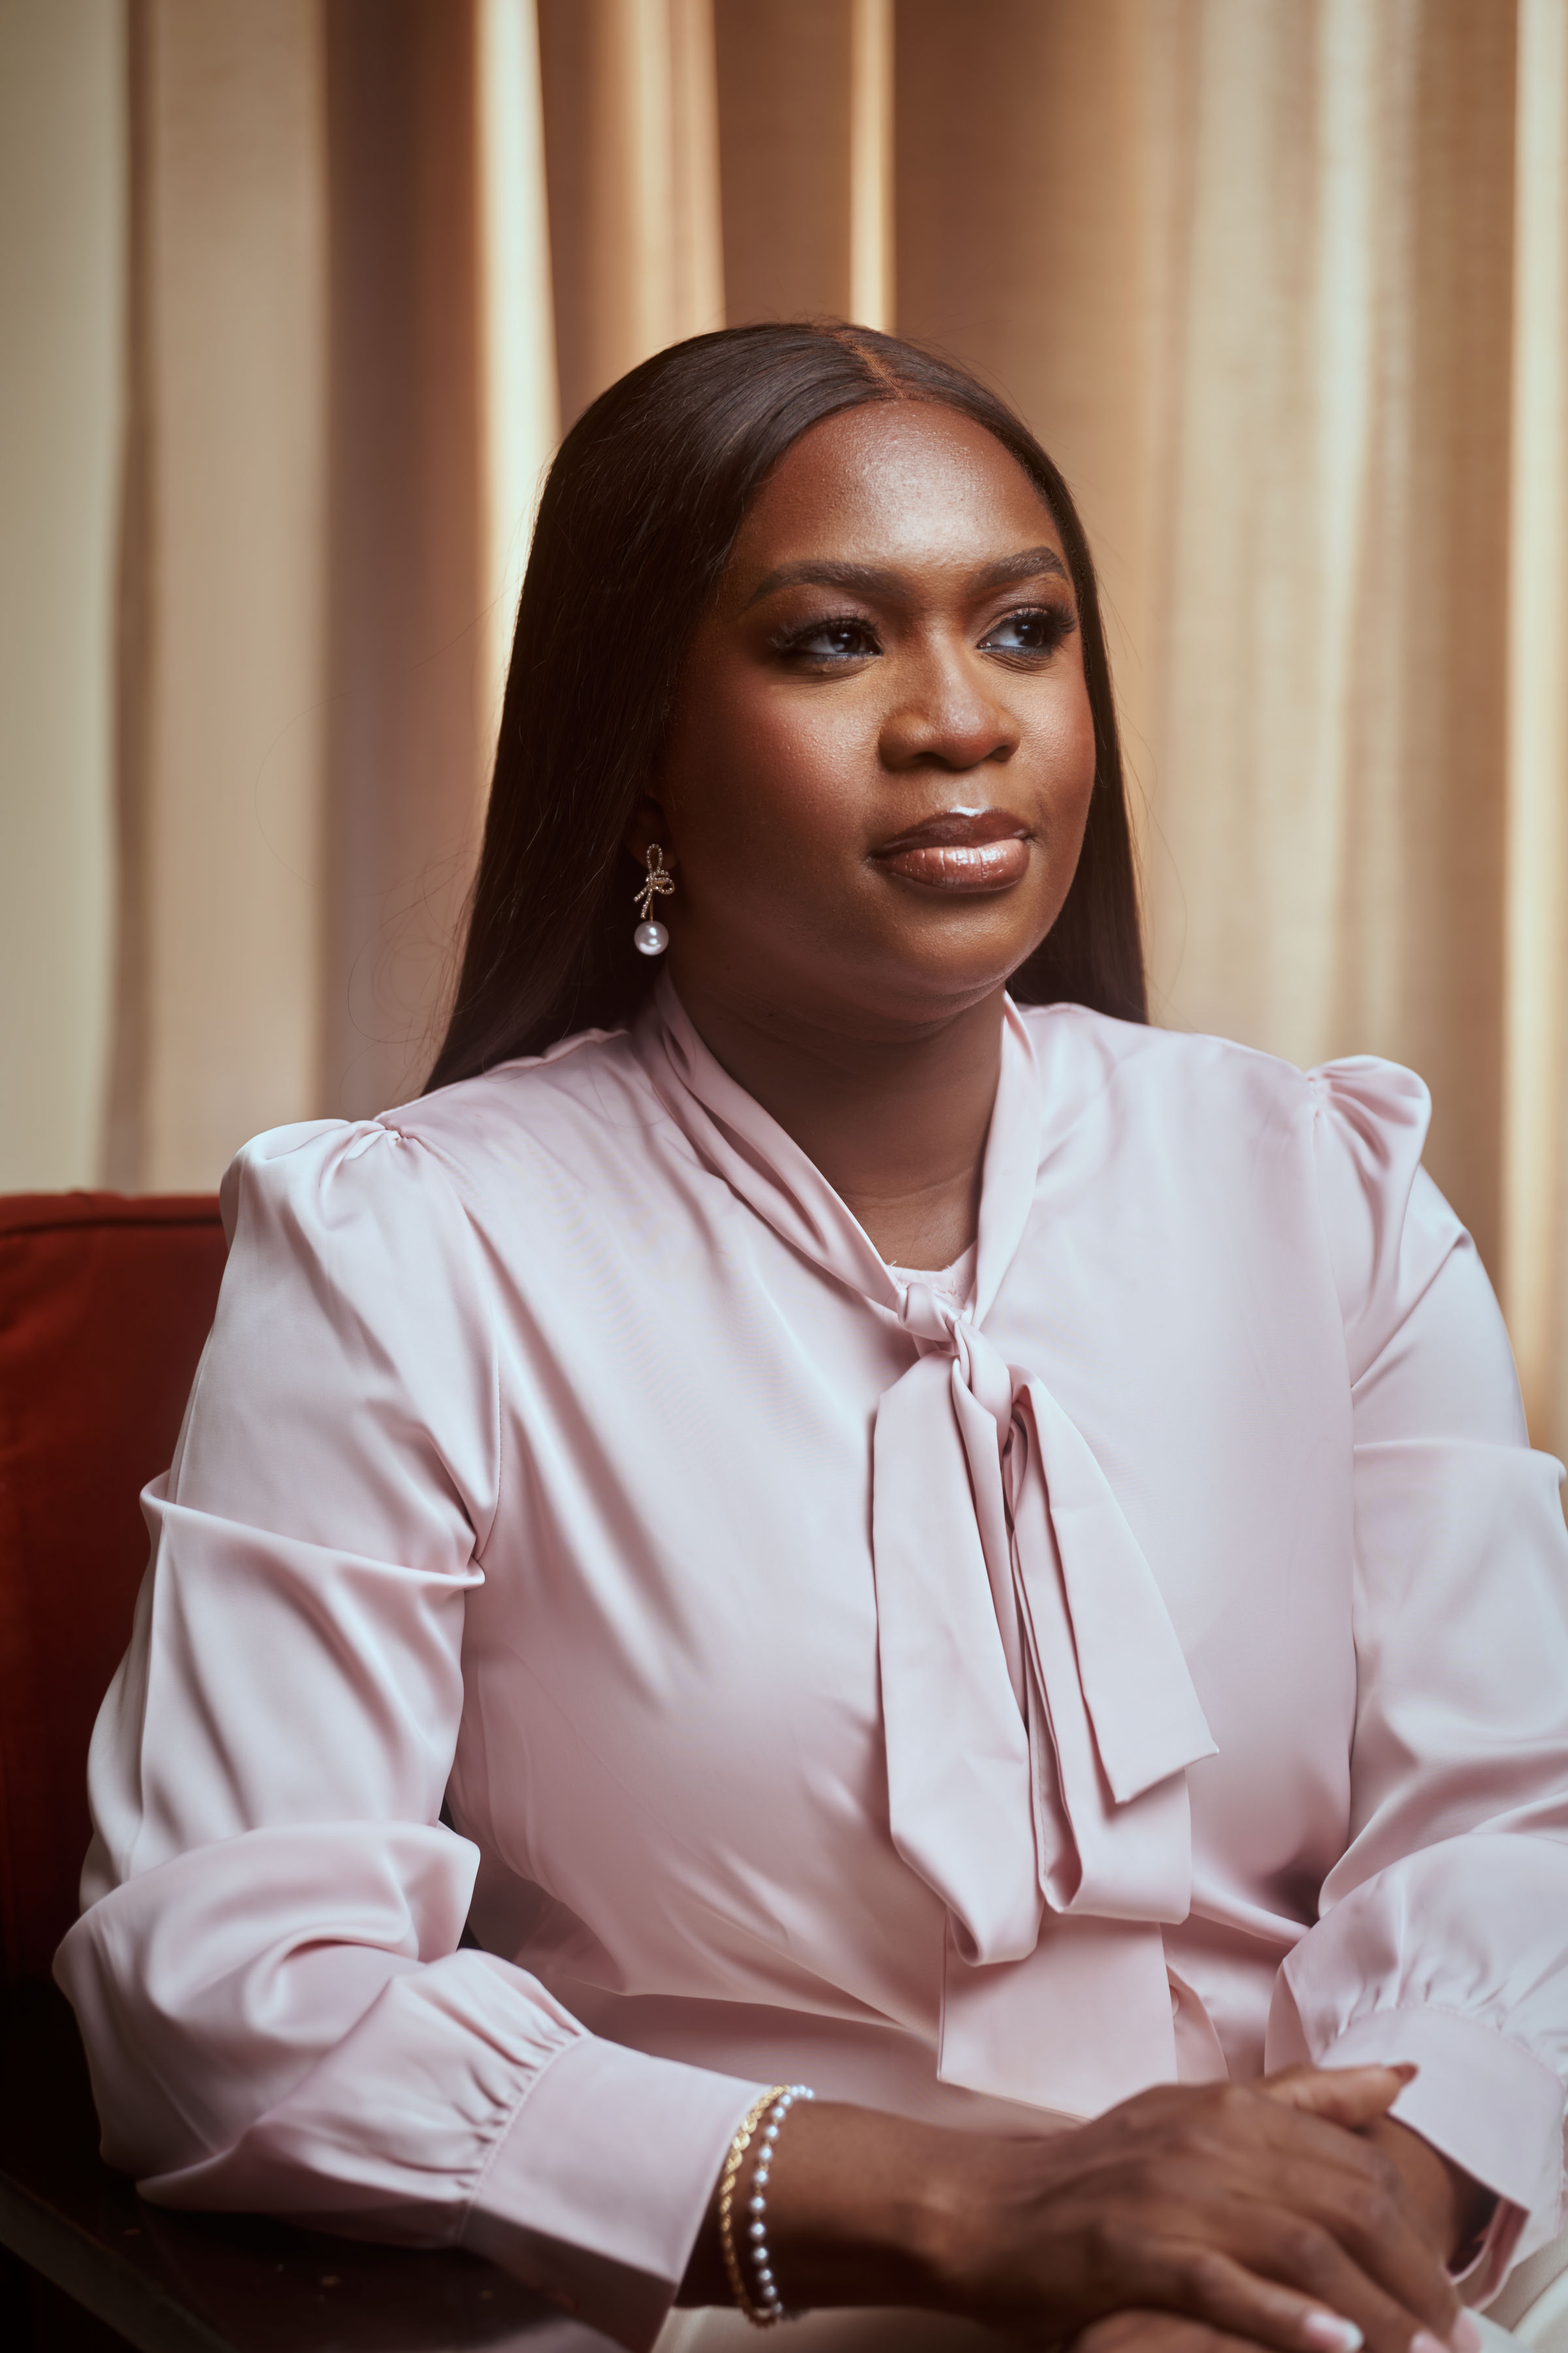
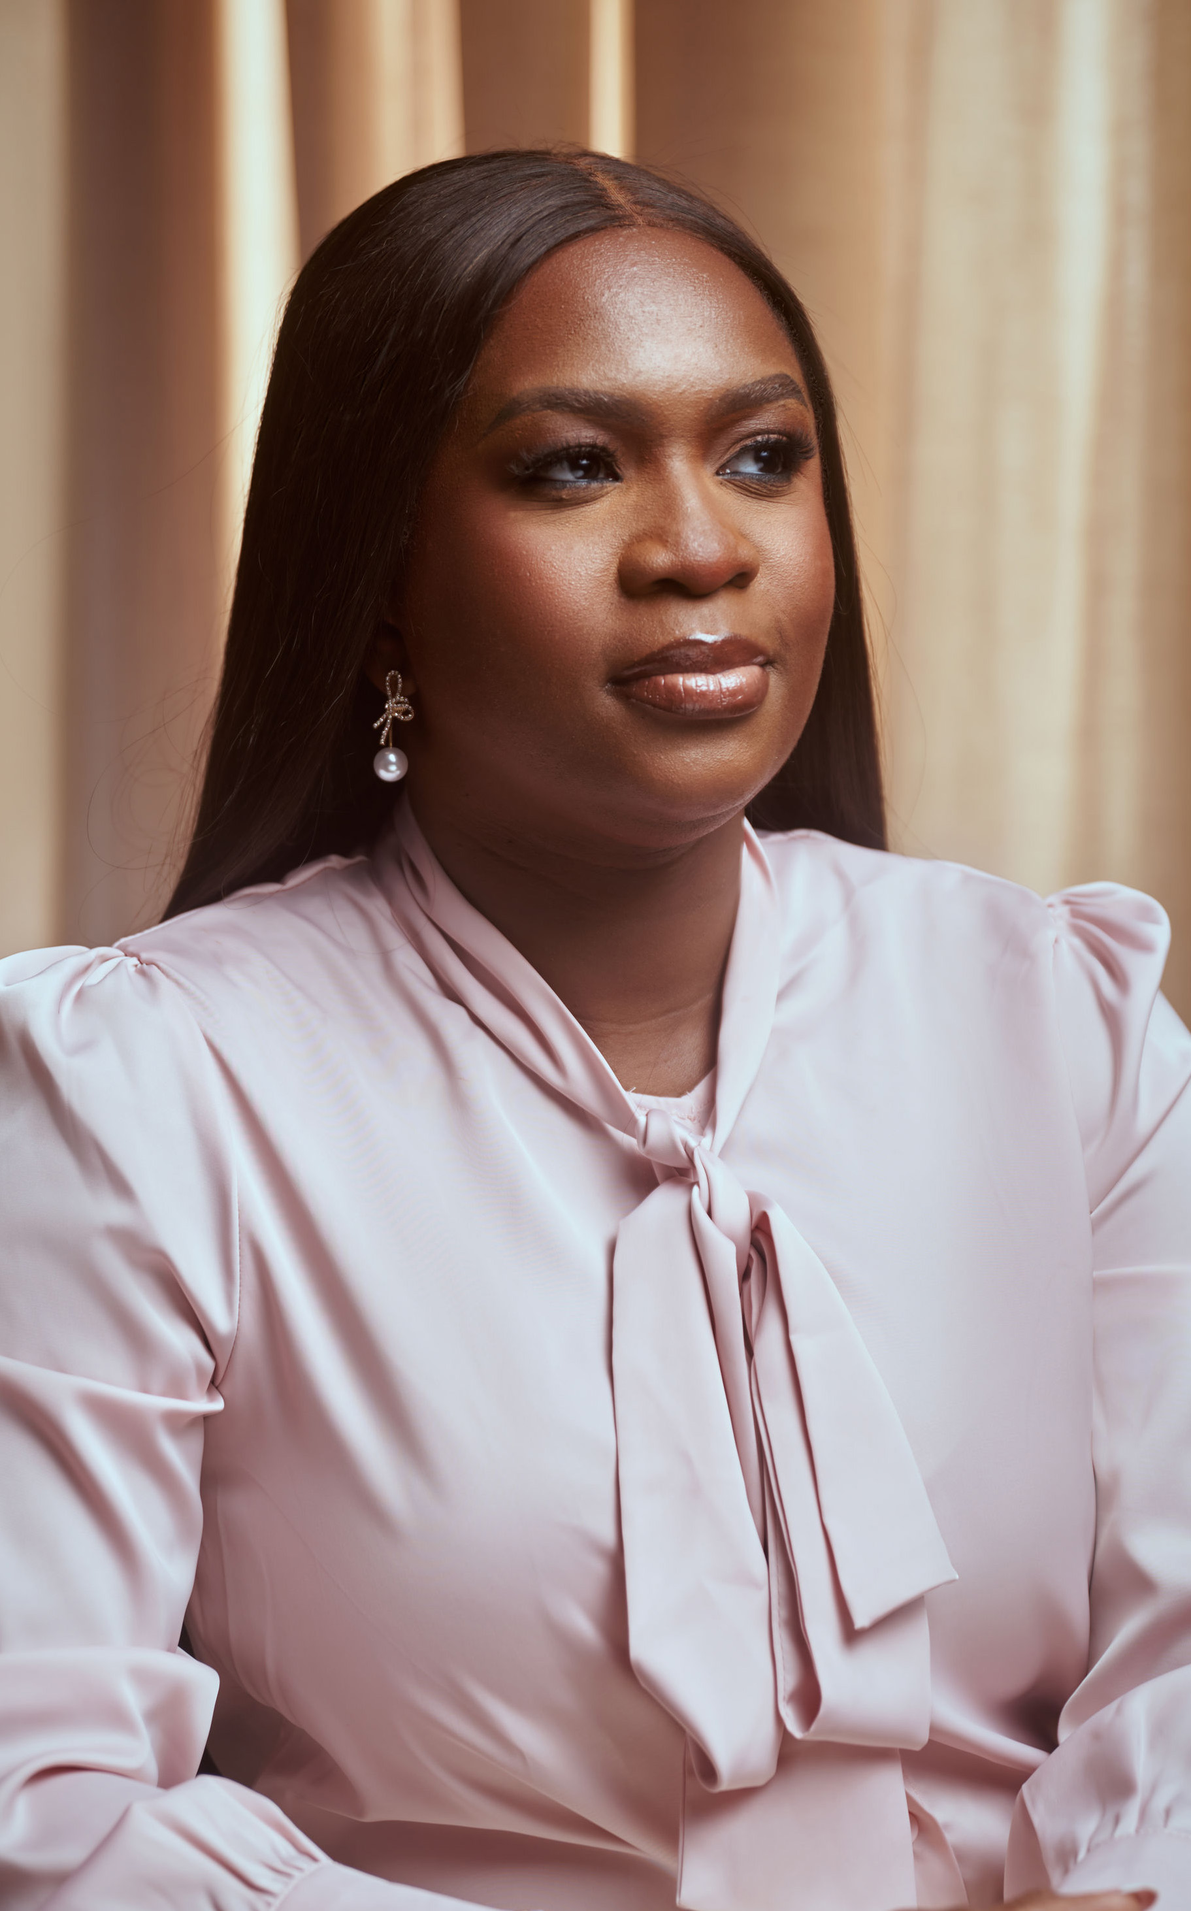
new

diff --git a/src/App.jsx b/src/App.jsx
@@ -560,15 +560,18 @@ export default function App() {
 
             <div className="b-cell b-2 b-ink b-quote reveal d1">
               <blockquote>
-                "My job is to make difficult things look easy  through smart systems, sharp attention to detail, sound judgement and relentless execution.
-"
+                "My job is to know what needs attention, what needs protection, what needs to be said, and what must remain confidential."
               </blockquote>
               <cite>Oluwaseyi Makinde</cite>
             </div>
 
             <div className="b-cell b-3 b-rose-lt b-roles reveal d2">
+  <style dangerouslySetInnerHTML={{ __html: `
+    .rt-ink{background:var(--ink);color:var(--rose-lt)}
+  ` }} />
               <div className="b-role-tag rt2">Strategic Advisor</div>
               <div className="b-role-tag rt1">Co-Founder · Dome</div>
+              <div className="b-role-tag rt-ink">Consultant</div>
               <div className="b-role-tag rt2">Creator · @mommychoplife</div>
               <div className="b-role-tag rt3">Japada Series</div>
             </div>
@@ -594,41 +597,51 @@ export default function App() {
             <div className="bcard reveal d1"><div className="bc-top"><div className="bc-num">01.</div><div className="bc-name"> Strategic Advisor</div><div className="bc-sub">Strategic Advisor · High profile Leaders</div></div><div className="bc-body"><p>Leaders rely on Oluwaseyi to anticipate and solve problems before they surface, protect their time, reputation and vision.</p><a href="#contact" className="bc-link">Enquire about working together</a></div></div>
             <div className="bcard reveal d2"><div className="bc-top"><div className="bc-num">02.</div><div className="bc-name">Dome</div><div className="bc-sub">PROPTECH STARTUP · Nigeria</div></div><div className="bc-body"><p>Dome gives you the real story before you rent, with verified reviews and neighbourhood insights that make finding your next home simpler and more transparent.</p><a href="https://usedome.app/" className="bc-link">Download the app</a></div></div>
             <div className="bcard reveal d1"><div className="bc-top"><div className="bc-num">03.</div><div className="bc-name">@mommychoplife</div><div className="bc-sub">Lifestyle · Community · Creator</div></div><div className="bc-body"><p>The home of the Japada series chronicling her journey of relocating from Canada to Nigeria and sharing insights on building a meaningful life back home.</p><a href="https://www.instagram.com/mommychoplife/" target="_blank" rel="noopener" className="bc-link">Follow on Instagram</a></div></div>
-            <div className="bcard reveal d2"><div className="bc-top"><div className="bc-num">04.</div><div className="bc-name">Speaking &amp; Media</div><div className="bc-sub">Keynote · Panels · Features</div></div><div className="bc-body"><p>Available for keynotes, panels and media features on the Japada movement, women in executive roles and building a personal brand with substance.</p><a href="#contact" className="bc-link">Book a speaking engagement</a></div></div>
+            <div className="bcard reveal d2"><div className="bc-top"><div className="bc-num">04.</div><div className="bc-name">Speaking &amp; Media</div><div className="bc-sub">Keynote · Panels · Features</div></div><div className="bc-body"><p>Available for keynotes, panels and media features on the Japada movement, women in executive leadership and building strong, intentional personal brands.</p><a href="#contact" className="bc-link">Book a speaking engagement</a></div></div>
           </div>
         </div>
       </section>
 
       {/* JAPADA */}
-      <section className="japada" id="japada">
-        <div className="japada-inner">
-          <div className="reveal reveal-l">
-            <span className="j-eyebrow">The Japada Series</span>
-            <h2 className="j-title">
-              When everyone<br />was leaving,<br />she found <em>balance</em> <br/> by coming <em>back </em>.
-            </h2>
-            <p className="j-body">
-              The Japada series follows a real life implication of a Nigerian relocating from Canada to Lagos  in honest, unfiltered episodes. Real costs. Real trade-offs. Real joy.
-            </p>
-            <div className="j-eps">
-              <div className="ep-row"><span className="ep-n">01</span><span className="ep-t">Why I came back when everyone was leaving</span><span className="ep-badge">Ep. 1</span></div>
-              <div className="ep-row"><span className="ep-n">02</span><span className="ep-t">The real cost of settling in Lagos — the numbers</span><span className="ep-badge">Ep. 2</span></div>
-              <div className="ep-row"><span className="ep-n">03</span><span className="ep-t">Raising my kids here vs. there</span><span className="ep-badge">Ep. 3</span></div>
-              <div className="ep-row"><span className="ep-n">04</span><span className="ep-t">The artisan wahala nobody warns you about</span><span className="ep-badge">Ep. 4</span></div>
-              <div className="ep-row"><span className="ep-n">05</span><span className="ep-t">Multi-currency life: making it actually work</span><span className="ep-badge">Ep. 5</span></div>
-            </div>
-            <div className="j-ctas">
-              <a href="https://www.instagram.com/mommychoplife/" target="_blank" rel="noopener" className="btn-bone">Watch the series</a>
-              <a href="#contact" className="btn-ghost-w">Get the Japada Playbook</a>
-            </div>
-          </div>
-          <div className="j-stats reveal d2">
-            <div className="jstat"><div className="jn">5<em>+</em></div><div className="jl">Episodes released and growing</div></div>
-            <div className="jstat"><div className="jn">CA<em>→</em>NG</div><div className="jl">The journey she's building in public</div></div>
-            <div className="jstat"><div className="jn">1<em> plan</em></div><div className="jl">Written down as she goes, for those planning the same move</div></div>
-          </div>
-        </div>
-      </section>
+     {/* JAPADA */}
+<section className="japada" id="japada">
+  <style dangerouslySetInnerHTML={{ __html: `
+    .japada-inner{display:grid;grid-template-columns:1.15fr .85fr;gap:56px;align-items:center}
+    .japada-photo{position:relative;border-radius:20px;overflow:hidden;aspect-ratio:4/5;
+      box-shadow:0 30px 60px rgba(36,27,29,.35)}
+    .japada-photo img{width:100%;height:100%;object-fit:cover;object-position:center top;display:block}
+    .japada-photo::after{content:"";position:absolute;inset:0;
+      background:linear-gradient(160deg,rgba(230,183,189,0) 55%,rgba(142,66,87,.35) 100%)}
+    @media(max-width:820px){
+      .japada-inner{grid-template-columns:1fr;gap:40px}
+      .japada-photo{aspect-ratio:3/4;max-width:460px;margin:0 auto;order:2}
+    }
+  ` }} />
+
+  <div className="japada-inner">
+    <div className="reveal reveal-l">
+      <span className="j-eyebrow">The Japada Series</span>
+      <h2 className="j-title">
+        When everyone<br />was leaving,<br />she found <em>balance</em> <br/> by coming <em>back </em>.
+      </h2>
+     
+      <div className="j-eps">
+        <div className="ep-row"><span className="ep-n">01</span><span className="ep-t">Why I came back when everyone was leaving</span><span className="ep-badge">Ep. 1</span></div>
+        <div className="ep-row"><span className="ep-n">02</span><span className="ep-t">The real cost of settling in Lagos — the numbers</span><span className="ep-badge">Ep. 2</span></div>
+        <div className="ep-row"><span className="ep-n">03</span><span className="ep-t">Raising my kids here vs. there</span><span className="ep-badge">Ep. 3</span></div>
+        <div className="ep-row"><span className="ep-n">04</span><span className="ep-t">The artisan wahala nobody warns you about</span><span className="ep-badge">Ep. 4</span></div>
+        <div className="ep-row"><span className="ep-n">05</span><span className="ep-t">Multi-currency life: making it actually work</span><span className="ep-badge">Ep. 5</span></div>
+      </div>
+      <div className="j-ctas">
+        <a href="https://www.instagram.com/mommychoplife/" target="_blank" rel="noopener" className="btn-bone">Watch the series</a>
+      </div>
+    </div>
+
+    <div className="japada-photo reveal d2">
+      <img src="/japada.jpg" alt="Oluwaseyi Makinde in Lagos" />
+    </div>
+  </div>
+</section>
 {/* RECOMMENDATIONS */}
 <section className="recs" id="recommendations">
   <style dangerouslySetInnerHTML={{ __html: `
@@ -658,14 +671,15 @@ export default function App() {
     <div className="recs-head reveal">
       <span className="recs-eyebrow">Recommendations</span>
       <h2 className="recs-title">In their <em>own words.</em></h2>
-      <p className="recs-sub">Leaders, counsel and colleagues across marketing, finance and tech on what it's like to work with Seyi.</p>
+      <p className="recs-sub">Principals, partners and peers across marketing, finance and tech on what it’s like to work with Oluwaseyi</p>
     </div>
 
     <div className="recs-grid">
 
       <div className="rec-card reveal">
         <div className="rec-stars">★★★★★</div>
-        <p className="rec-quote">No matter how tense a meeting turned out, you could rely on Seyi to make sure everyone left with a smile. I gained confidence and new skills working with her — and I was consistently impressed by how effortlessly she handled even the toughest clients. She earns my highest recommendation.</p>
+        <p className="rec-quote">I was particularly inspired as well as impressed by Seyi's ability to handle even the toughest clients effortlessly. A skill that often takes a very long time to master appeared to be natural to her..
+No matter how tense a meeting turned out, you could rely on Seyi to make sure everyone left with a smile. </p>
         <div className="rec-who">
           <div className="rec-avatar">E</div>
           <div>
@@ -677,7 +691,8 @@ export default function App() {
 
       <div className="rec-card reveal">
         <div className="rec-stars">★★★★★</div>
-        <p className="rec-quote">Seyi did an AMAZING job. I reached out in a panic while marketing an event within 5 days she got me over 450 new leads. Not only is she a marketing guru, she's kind, personable and takes professionalism to a new level. I'll recommend her without any reservations.</p>
+        <p className="rec-quote">Not only is Seyi a marketing guru, she is
+also kind, personable, and very easy to work with. She takes professionalism to a new level. I really enjoyed working with her and already have other projects lined up for her. I absolutely enjoyed working with her and will recommend her to anyone without any reservations</p>
         <div className="rec-who">
           <div className="rec-avatar">E</div>
           <div>
@@ -701,7 +716,7 @@ export default function App() {
 
       <div className="rec-card reveal">
         <div className="rec-stars">★★★★★</div>
-        <p className="rec-quote">Seyi is such an amazing person to work with. She cares not only about the work but about your personal and career growth. Highly brilliant at digital strategy and a brainbox of ideas you can always count on her to deliver. She has my highest recommendations anytime.</p>
+        <p className="rec-quote">Seyi is such an amazing person to work with. She cares not only about the work but also about your personal and career growth. Seyi is highly brilliant at digital strategy and is a brainbox of ideas - you can always count on her to deliver. During my time working with Seyi, she really inspired me to pursue excellence. Seyi has my highest recommendations anytime.</p>
         <div className="rec-who">
           <div className="rec-avatar">P</div>
           <div>
@@ -816,7 +831,7 @@ She Gave Up Canada... And Never Looked Back "</p><span className="press-src">The
 
       {/* FOOTER */}
       <footer className="footer">
-        <span className="footer-name">Oluwaseyi Makinde.</span>
+
         <ul className="footer-links">
           <li><a href="#about">About</a></li>
           <li><a href="#career">Journey</a></li>
